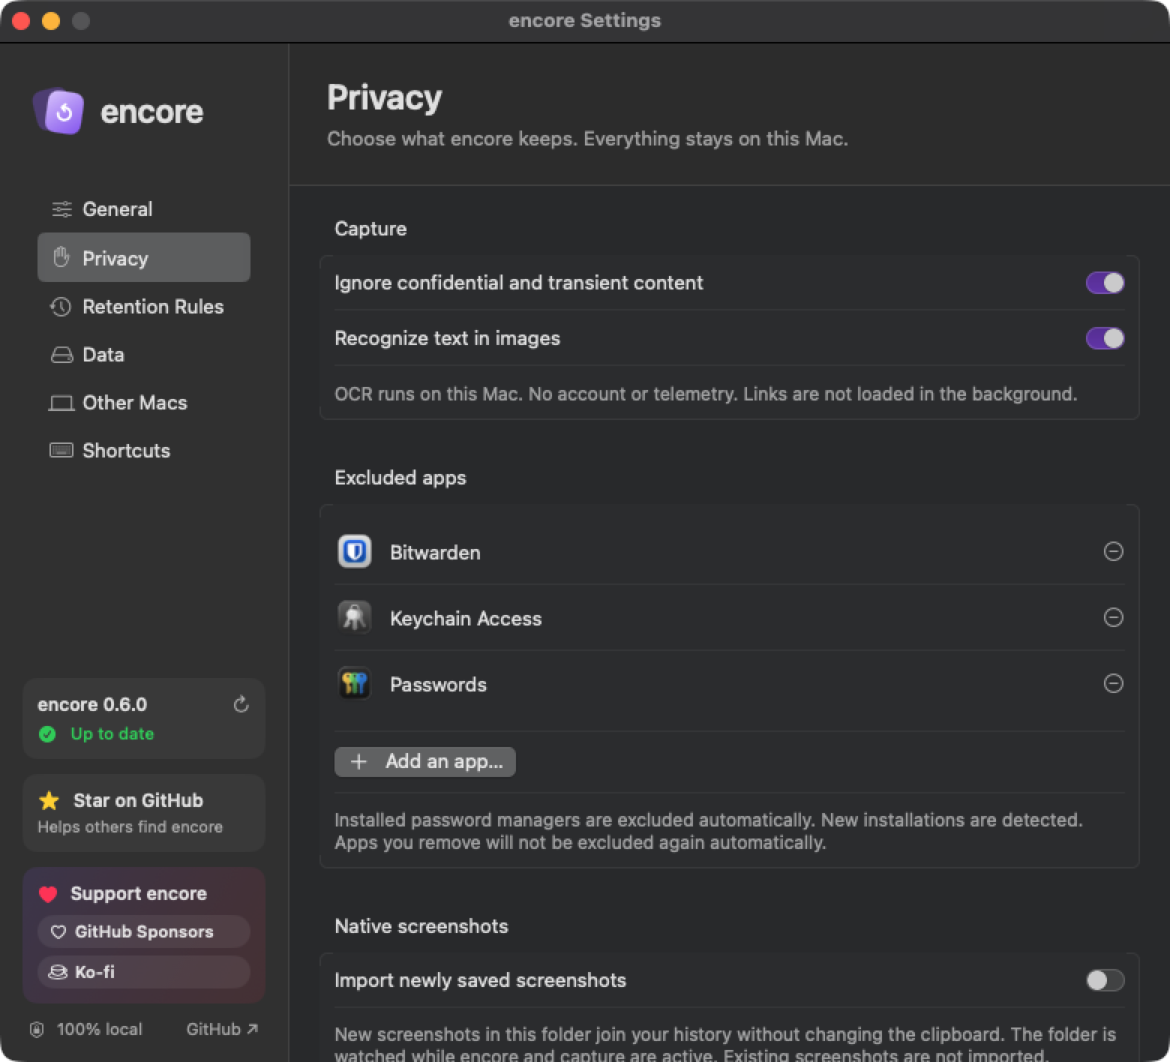
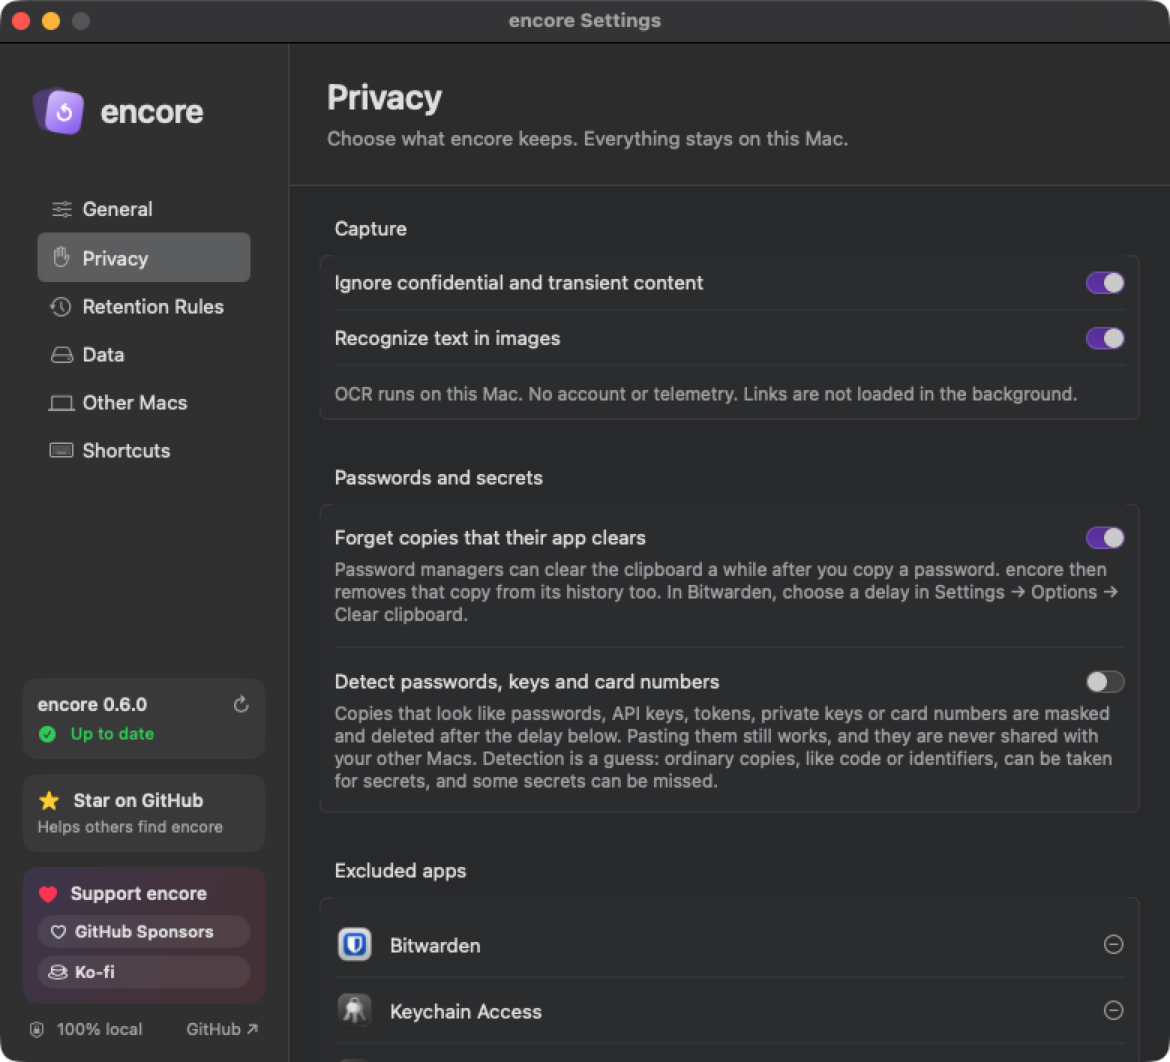
Explain on the data page how encore handles passwords copied from browser extensions

diff --git a/website/build.py b/website/build.py
@@ -149,6 +149,7 @@ PRIVACY = {
             ("What encore never keeps", [
                 "Password managers mark what they copy as confidential, and encore skips it. It also leaves out the password apps installed on your Mac: 1Password, Bitwarden, Dashlane, KeePassXC, Keychain Access and Passwords.",
                 "Exclude any other app, like your bank or your work chat, in Settings → Privacy. And pause capture in one click from the menu bar.",
+                "Browser extensions, like Bitwarden in Firefox, copy as the browser and mark nothing. Two settings cover them. When the app clears the clipboard after a copy (in Bitwarden: Settings → Options → Clear clipboard), encore forgets that copy too. And, if you turn it on, encore spots copies that look like passwords, API keys, tokens or card numbers, masks them and deletes them after the delay you choose. It is a guess: an ordinary copy can be taken for a secret, and a secret can be missed.",
                 "<small>Not every app marks its sensitive copies. When in doubt, exclude it.</small>",
             ], "privacy", "encore’s Privacy settings: confidential content ignored, text recognition on this Mac, password apps excluded"),
             ("You stay in control", [
@@ -209,6 +210,7 @@ PRIVACY = {
             ("Ce qu’encore ne garde jamais", [
                 "Les gestionnaires de mots de passe signalent leurs copies comme confidentielles, et encore les ignore. Il écarte aussi d’office les apps de mots de passe installées sur ton Mac : 1Password, Bitwarden, Dashlane, KeePassXC, Trousseaux d’accès et Mots de passe.",
                 "Exclus n’importe quelle autre app, ta banque ou ta messagerie pro par exemple, dans Réglages → Confidentialité. Et mets la capture en pause en un clic depuis la barre des menus.",
+                "Les extensions de navigateur, comme Bitwarden dans Firefox, copient au nom du navigateur et ne signalent rien. Deux réglages les couvrent. Quand l’app vide le presse-papiers après une copie (dans Bitwarden : Paramètres → Options → Effacer le presse-papiers), encore oublie aussi cette copie. Et, si tu l’actives, encore repère les copies qui ressemblent à des mots de passe, clés d’API, jetons ou numéros de carte, les masque et les supprime après le délai de ton choix. C’est une estimation : une copie ordinaire peut être prise pour un secret, et un secret peut passer inaperçu.",
                 "<small>Toutes les apps ne signalent pas leurs copies sensibles. Dans le doute, exclus-les.</small>",
             ], "privacy", "Les réglages Confidentialité d’encore : contenus confidentiels ignorés, reconnaissance du texte sur ce Mac, apps de mots de passe exclues"),
             ("Tu gardes la main", [
